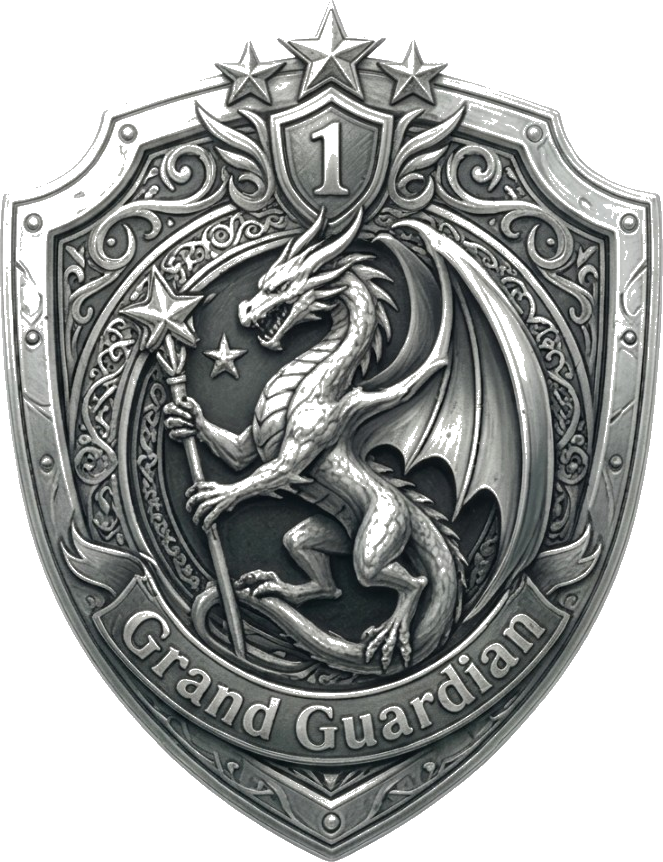
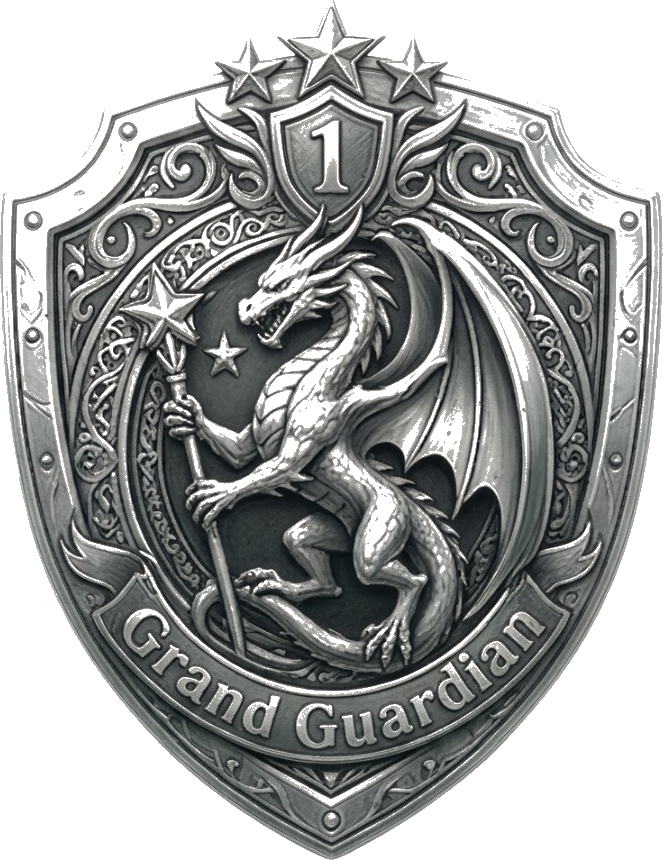
Remove shield image gaps and white fringe beside rank #1 level.
Use unoptimized transparent PNG with mix-blend-lighten and zero flex gap so the Grand Guardian badge sits flush next to the level text.

diff --git a/src/components/leaderboard/GrandGuardianShield.tsx b/src/components/leaderboard/GrandGuardianShield.tsx
@@ -1,0 +1,24 @@
+import Image from "next/image";
+import { cn } from "@/lib/utils";
+
+type GrandGuardianShieldProps = {
+  className?: string;
+};
+
+/** Local PNG with alpha — unoptimized to preserve transparency */
+export function GrandGuardianShield({ className }: GrandGuardianShieldProps) {
+  return (
+    <Image
+      src="/grand-guardian-shield.png"
+      alt=""
+      width={663}
+      height={860}
+      unoptimized
+      priority
+      className={cn(
+        "block h-14 w-auto max-w-none shrink-0 object-contain object-left leading-[0] mix-blend-lighten sm:h-16",
+        className,
+      )}
+    />
+  );
+}

diff --git a/src/components/leaderboard/VoidGuardiansBoard.tsx b/src/components/leaderboard/VoidGuardiansBoard.tsx
@@ -3,6 +3,7 @@
 import Image from "next/image";
 import { useTranslations } from "next-intl";
 import { DragonShield } from "@/components/leaderboard/DragonShield";
+import { GrandGuardianShield } from "@/components/leaderboard/GrandGuardianShield";
 import {
   getLeaderboardDisplayOrder,
   type VoidGuardian,
@@ -66,23 +67,15 @@ export function VoidGuardianCard({ player, labels }: VoidGuardianCardProps) {
           </span>
         </p>
 
-        <div className="flex items-center gap-2.5">
+        <div className="flex items-center gap-0 leading-none">
           {featured ? (
-            <Image
-              src="/grand-guardian-shield.png"
-              alt="Grand Guardian"
-              width={663}
-              height={862}
-              className="h-14 w-auto shrink-0 object-contain drop-shadow-[0_0_12px_rgba(192,192,192,0.45)] sm:h-16"
-              quality={100}
-              priority
-            />
+            <GrandGuardianShield className="-mr-0.5" />
           ) : (
             <DragonShield size="md" />
           )}
           <p
             className={cn(
-              "void-display text-void-green void-glow-text",
+              "void-display leading-none text-void-green void-glow-text",
               featured ? "text-xl sm:text-2xl" : "text-lg",
             )}
           >